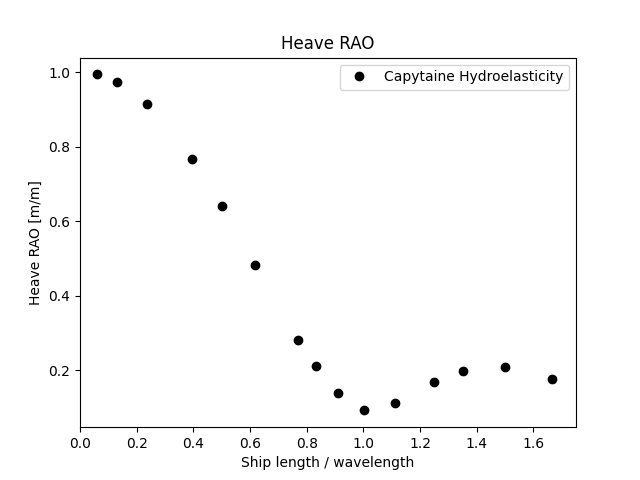
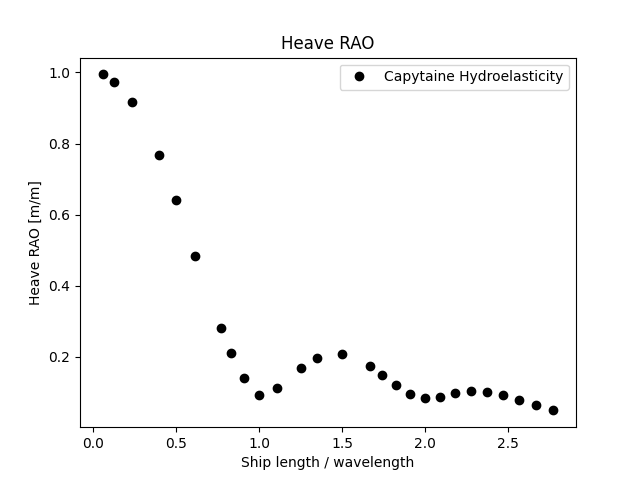
Added separation of rigid body modes into surge, sway, heave, roll, pitch and yaw in CalculateModes. Fixed addition of point masses in all three barge analysis files, accounting for their contributions to roll around center of twist. Used these canonical rigid body modes to plot more RAOs, transfer 

diff --git a/containerShipModelProperSolution.py b/containerShipModelProperSolution.py
@@ -50,7 +50,7 @@ shearModulus = youngsModulus / (2 * (1 + 0.22))
 waveHeight = 0.05
 
 waterDepths = np.array([1.8])
-omegas = np.array([1, 2, 3, 4, 4.50, 5, 5.59, 5.81, 6.07, 6.37, 6.71, 7.12, 7.4, 7.8, 8.22])
+omegas = np.array([1, 2, 3, 4, 4.50, 5, 5.59, 5.81, 6.07, 6.37, 6.71, 7.12, 7.4, 7.8, 8.22, 8.4, 8.6, 8.8, 9, 9.2, 9.4, 9.6, 9.8, 10, 10.2, 10.4, 10.6])
 waveDirections = np.array([np.pi])
 
 # mesh resolution
@@ -101,6 +101,11 @@ for i in range(pointMasses.size):
     beam.massMatrix[7 * vertex + 1, 7 * vertex + 1] += pointMasses[i]
     beam.massMatrix[7 * vertex + 2, 7 * vertex + 2] += pointMasses[i]
 
+    beam.massMatrix[7 * vertex + 3, 7 * vertex + 3] += pointMasses[i] * (zNeutralAxis - zTwistCenter)**2
+
+    beam.massMatrix[7 * vertex + 1, 7 * vertex + 3] -= pointMasses[i] * (zNeutralAxis - zTwistCenter)
+    beam.massMatrix[7 * vertex + 3, 7 * vertex + 1] -= pointMasses[i] * (zNeutralAxis - zTwistCenter)
+
 # mesh generation
 panelsLength = int(round(panelsPerMeter * hullLength))
 panelsBreadth = int(round(panelsPerMeter * hullBreadth))
@@ -141,16 +146,13 @@ modalSpringingResults = spr.ModalProperSpringingResults(dryNaturalFrequenciesSqu
 # midships bending moments
 midshipsBendingMoments = np.zeros([omegas.size], dtype = np.complex128)
 midshipsBendingMomentAmplitudes = np.zeros([omegas.size])
-heaveAmplitudes = np.zeros([omegas.size])
-pitchAmplitudes = np.zeros([omegas.size])
+heaveAmplitudes = np.abs(waveHeight / 2 * modalSpringingResults.modalAmplitudes.values[:, 0, 2] * dryVibrationModesNormalized[2, 2])
+pitchAmplitudes = np.abs(waveHeight / 2 * modalSpringingResults.modalAmplitudes.values[:, 0, 4] * dryVibrationModesNormalized[5, 4])
 
 for i in range(omegas.size):
     displacements = waveHeight / 2 * dryVibrationModesNormalized @ modalSpringingResults.modalAmplitudes.values[i, 0, :]
     midshipsBendingMoments[i] = beam.InternalForce(hullLength/2, displacements, 'mv')
     midshipsBendingMomentAmplitudes[i] = np.abs(midshipsBendingMoments[i])
-
-    heaveAmplitudes[i] = np.abs(np.mean(displacements[2::7]))
-    pitchAmplitudes[i] = np.abs(np.mean(displacements[5::7]))
 
 bendingMomentCoefs = midshipsBendingMomentAmplitudes / (waterDensity * gravity * hullLength**2 * hullBreadth * waveHeight/2)
 
@@ -164,6 +166,30 @@ x = np.linspace(0, hullLength, 500)
 displacements = waveHeight / 2 * dryVibrationModesNormalized @ modalSpringingResults.modalAmplitudes.values[omegaIndex, 0, :]
 bendingMomentDistribution = beam.InternalForce(x, displacements, 'mv')
 shearForceDistribution = beam.InternalForce(x, displacements, 'sv')
+
+# force decomposition
+froudeKrylovModalForces = np.zeros([omegas.size, (beamSegments + 1) * 7], dtype = complex)
+diffractionModalForces = np.zeros([omegas.size, (beamSegments + 1) * 7], dtype = complex)
+structuralMassModalForces = np.zeros([omegas.size, (beamSegments + 1) * 7], dtype = complex)
+addedMassModalForces = np.zeros([omegas.size, (beamSegments + 1) * 7], dtype = complex)
+radiationModalForces = np.zeros([omegas.size, (beamSegments + 1) * 7], dtype = complex)
+hydrostaticStiffnessModalForces = np.zeros([omegas.size, (beamSegments + 1) * 7], dtype = complex)
+structuralStiffnessModalForces = np.zeros([omegas.size, (beamSegments + 1) * 7], dtype = complex)
+modalForcesFromDisplacementsMatrices = np.zeros([omegas.size, (beamSegments + 1) * 7, (beamSegments + 1) * 7], dtype = complex)
+
+for i in range(omegas.size):
+    froudeKrylovModalForces[i, :] = hydrodynamicResults.Froude_Krylov_force.values[i, 0, :]
+    diffractionModalForces[i, :] = hydrodynamicResults.diffraction_force.values[i, 0, :]
+
+    structuralMassModalForces[i, :] = -omegas[i]**2 * modalSpringingResults.modalAmplitudes.values[i, 0, :]
+    addedMassModalForces[i, :] = -omegas[i]**2 * modalSpringingResults.addedMass.values[i, :, :] @ modalSpringingResults.modalAmplitudes.values[i, 0, :]
+
+    radiationModalForces[i, :] = complex(0, 1) * omegas[i] * modalSpringingResults.radiationDamping.values[i, :, :] @ modalSpringingResults.modalAmplitudes.values[i, 0, :]
+
+    hydrostaticStiffnessModalForces[i, :] = hydrostaticStiffness.values @ modalSpringingResults.modalAmplitudes.values[i, 0, :]
+    structuralStiffnessModalForces[i, :] = np.diag(dryNaturalFrequenciesSquared) @ modalSpringingResults.modalAmplitudes.values[i, 0, :]
+
+    modalForcesFromDisplacementsMatrices[i, :, :] = -omegas[i]**2 * (np.eye((beamSegments + 1) * 7) + modalSpringingResults.addedMass.values[i, :, :]) + complex(0, 1) * omegas[i] * modalSpringingResults.radiationDamping.values[i, :, :] + hydrostaticStiffness.values + np.diag(dryNaturalFrequenciesSquared)
 
 
 
@@ -190,7 +216,7 @@ for i in range(omegas.size):
     print('%.2f               %.2f'%(omegas[i], midshipsBendingMomentAmplitudes[i]))
 print()
 
-# for i in range(6, 16):
+# for i in range(6):
 #     animation = hullBody.animate(motion = 'mode%d'%i, loop_duration = 1)
 #     animation.run()
 
@@ -243,7 +269,6 @@ plt.savefig('solutions/%dmodesProper/midshipsBendingMomentCoefs.png'%numberModes
 plt.figure()
 plt.title('Heave RAO')
 plt.plot(hullLength/wavelengths, heaveAmplitudes / (waveHeight / 2), 'ko', label = 'Capytaine Hydroelasticity')
-plt.xlim([0,1.75])
 plt.xlabel('Ship length / wavelength')
 plt.ylabel('Heave RAO [m/m]')
 plt.legend()
@@ -252,11 +277,50 @@ plt.savefig('solutions/%dmodesProper/heaveRAO.png'%numberModes)
 plt.figure()
 plt.title('Pitch RAO')
 plt.plot(hullLength/wavelengths, pitchAmplitudes / (waveHeight / wavelengths * np.pi), 'ko', label = 'Capytaine Hydroelasticity')
-plt.xlim([0,1.75])
 plt.xlabel('Ship length / wavelength')
 plt.ylabel('Pitch RAO [rad/rad]')
 plt.legend()
 plt.savefig('solutions/%dmodesProper/pitchRAO.png'%numberModes)
+
+plt.figure()
+plt.title('Heave excitation force')
+plt.plot(hullLength/wavelengths, np.abs(hydrodynamicResults.excitation_force.values[:, 0, 2]), 'ko', label = 'Capytaine Hydroelasticity')
+plt.xlabel('Ship length / wavelength')
+plt.ylabel('Heave excitation force over square root of ship mass per unit wave amplitude [N/sqrt(kg) / m]')
+plt.legend()
+plt.savefig('solutions/%dmodesProper/heaveExcitation.png'%numberModes)
+
+plt.figure()
+plt.title('Pitch excitation force')
+plt.plot(hullLength/wavelengths, np.abs(hydrodynamicResults.excitation_force.values[:, 0, 4]), 'ko', label = 'Capytaine Hydroelasticity')
+plt.xlabel('Ship length / wavelength')
+plt.ylabel('Pitch excitation force over square root of pitch inertia per unit wave amplitude [Nm/sqrt(kg m2) / m]')
+plt.legend()
+plt.savefig('solutions/%dmodesProper/pitchExcitation.png'%numberModes)
+
+plt.figure()
+plt.title('Heave transfer function')
+plt.plot(hullLength/wavelengths, np.abs(modalSpringingResults.modalAmplitudesFromForcesMatrices.values[:, 2, 2]), 'ko', label = 'Capytaine Hydroelasticity')
+plt.xlabel('Ship length / wavelength')
+plt.ylabel('Heave transfer function [sqrt(kg)m / (sqrt(kg)m / s2)]')
+plt.legend()
+plt.savefig('solutions/%dmodesProper/heaveTransferFunction.png'%numberModes)
+
+plt.figure()
+plt.title('Pitch transfer function')
+plt.plot(hullLength/wavelengths, np.abs(modalSpringingResults.modalAmplitudesFromForcesMatrices.values[:, 4, 4]), 'ko', label = 'Capytaine Hydroelasticity')
+plt.xlabel('Ship length / wavelength')
+plt.ylabel('Pitch transfer function [sqrt(kg)m / (sqrt(kg)m / s2)]')
+plt.legend()
+plt.savefig('solutions/%dmodesProper/pitchTransferFunction.png'%numberModes)
+
+plt.figure()
+plt.title('Heave to pitch transfer function')
+plt.plot(hullLength/wavelengths, np.abs(modalSpringingResults.modalAmplitudesFromForcesMatrices.values[:, 2, 4]), 'ko', label = 'Capytaine Hydroelasticity')
+plt.xlabel('Ship length / wavelength')
+plt.ylabel('Heave to pitch transfer function [sqrt(kg)m / (sqrt(kg)m / s2)]')
+plt.legend()
+plt.savefig('solutions/%dmodesProper/heaveToPitchTransferFunction.png'%numberModes)
 
 plt.figure()
 plt.title('Vertical bending moment distribution for omega = %.2f rad/s'%omegas[omegaIndex])

diff --git a/springing.py b/springing.py
@@ -1209,6 +1209,31 @@ class Beam:
         if not initialIndex == 0:
             print('Warning: Imaginary dry natural frequencies were encountered. There could be inconsistencies in the definition of the mass or stiffness matrices.')
 
+        mixedRigidBodyModesNormalized = allDryVibrationModesNormalized[:, initialIndex : initialIndex + 6]
+        separatedRigidBodyModesNormalized = np.zeros_like(mixedRigidBodyModesNormalized)
+
+        surgeSwayHeaveRollPitchYaw = [0, 1, 2, 3, 5, 6]
+
+        for i in range(6):
+            newModeConditionsMatrix = np.zeros([6, 6])
+
+            for j in range(i):
+                newModeConditionsMatrix[j, :] = separatedRigidBodyModesNormalized[:, j] @ self.massMatrix @ mixedRigidBodyModesNormalized
+            for j in range(i, 6):
+                newModeConditionsMatrix[j, :] = mixedRigidBodyModesNormalized[surgeSwayHeaveRollPitchYaw[j], :]
+
+            newModeConditionsVector = np.zeros([6])
+            newModeConditionsVector[i] = 1
+
+            newModeCoefsNotNormalized = la.solve(newModeConditionsMatrix, newModeConditionsVector)
+            newModeNotNormalized = mixedRigidBodyModesNormalized @ newModeCoefsNotNormalized
+
+            newModeModalMass = newModeNotNormalized @ self.massMatrix @ newModeNotNormalized
+
+            separatedRigidBodyModesNormalized[:, i] = newModeNotNormalized / np.sqrt(newModeModalMass)
+
+        allDryVibrationModesNormalized[:, initialIndex : initialIndex + 6] = separatedRigidBodyModesNormalized
+
         numberNodalDOFs = self.stiffnessMatrix.shape[0]
 
         if initialIndex + numberModes > numberNodalDOFs:

diff --git a/containerShipModelModalSolution.py b/containerShipModelModalSolution.py
@@ -101,6 +101,11 @@ for i in range(pointMasses.size):
     beam.massMatrix[7 * vertex + 1, 7 * vertex + 1] += pointMasses[i]
     beam.massMatrix[7 * vertex + 2, 7 * vertex + 2] += pointMasses[i]
 
+    beam.massMatrix[7 * vertex + 3, 7 * vertex + 3] += pointMasses[i] * (zNeutralAxis - zTwistCenter)**2
+
+    beam.massMatrix[7 * vertex + 1, 7 * vertex + 3] -= pointMasses[i] * (zNeutralAxis - zTwistCenter)
+    beam.massMatrix[7 * vertex + 3, 7 * vertex + 1] -= pointMasses[i] * (zNeutralAxis - zTwistCenter)
+
 # mesh generation
 panelsLength = int(round(panelsPerMeter * hullLength))
 panelsBreadth = int(round(panelsPerMeter * hullBreadth))
@@ -130,9 +135,7 @@ testMatrix = xr.Dataset(coords={
 })
 
 # hydrostatic stiffness calculation
-hydrostaticStiffness = hullBody.compute_hydrostatic_stiffness(rho = waterDensity)
-# hydrostaticStiffness.to_netcdf("data/modal_hydrostatics_allmodes.nc")
-# hydrostaticStiffness = xr.open_dataarray("data/modal_hydrostatics_allmodes.nc")
+hydrostaticStiffness = spr.ComputeHydrostaticStiffness(hullBody, waterDensity, gravity)
 
 # hydrodynamic calculation: added mass, radiation, forcing
 hydrodynamicResults = cpt.BEMSolver().fill_dataset(testMatrix, hullBody)

diff --git a/containerShipModel.py b/containerShipModel.py
@@ -101,6 +101,11 @@ for i in range(pointMasses.size):
     beam.massMatrix[7 * vertex + 1, 7 * vertex + 1] += pointMasses[i]
     beam.massMatrix[7 * vertex + 2, 7 * vertex + 2] += pointMasses[i]
 
+    beam.massMatrix[7 * vertex + 3, 7 * vertex + 3] += pointMasses[i] * (zNeutralAxis - zTwistCenter)**2
+
+    beam.massMatrix[7 * vertex + 1, 7 * vertex + 3] -= pointMasses[i] * (zNeutralAxis - zTwistCenter)
+    beam.massMatrix[7 * vertex + 3, 7 * vertex + 1] -= pointMasses[i] * (zNeutralAxis - zTwistCenter)
+
 # dry natural frequencies
 dryNaturalFrequenciesSquared, dryVibrationModes = eigh(beam.stiffnessMatrix, beam.massMatrix)
 
@@ -133,9 +138,7 @@ testMatrix = xr.Dataset(coords={
 })
 
 # hydrostatic stiffness calculation
-# hydrostaticStiffness = hullBody.compute_hydrostatic_stiffness(rho = waterDensity)
-# hydrostaticStiffness.to_netcdf("data/hydrostatics.nc")
-hydrostaticStiffness = xr.open_dataarray("data/hydrostatics.nc")
+hydrostaticStiffness = spr.ComputeHydrostaticStiffness(hullBody, waterDensity, gravity)
 
 # hydrodynamic calculation: added mass, radiation, forcing
 hydrodynamicResults = cpt.BEMSolver().fill_dataset(testMatrix, hullBody)

diff --git a/hydrostaticStiffnessDiscrepancies.py b/hydrostaticStiffnessDiscrepancies.py
@@ -1,0 +1,37 @@
+import numpy as np
+import capytaine as cpt
+import springing as spr
+
+np.set_printoptions(linewidth=100000)
+
+hullLength = 1
+hullBreadth = 1
+hullDraft = 1
+
+
+
+hullSize = (hullLength, hullBreadth, hullDraft)
+hullCenter = (0, 0, 0)
+meshResolution = (10, 10, 5)
+
+hullMesh = cpt.mesh_parallelepiped(size = hullSize, center = hullCenter, name = 'hull', resolution = meshResolution).immersed_part()
+
+rigidBodyDofs = cpt.rigid_body_dofs(hullCenter)
+rigidBody = cpt.FloatingBody(mesh = hullMesh, dofs = rigidBodyDofs, center_of_mass = hullCenter)
+rigidBodyStiffnessMatrix = rigidBody.compute_hydrostatic_stiffness()
+
+myDofs = {}
+myDofs['x'] = np.zeros([hullMesh.nb_faces, 3])
+myDofs['x'][:, 0] = 1
+myDofs['p'] = np.zeros([hullMesh.nb_faces, 3])
+myDofs['p'][:, 2] = hullMesh.faces_centers[:, 0]
+
+myBody = cpt.FloatingBody(mesh = hullMesh, dofs = myDofs, center_of_mass = hullCenter)
+myBodyStiffnessMatrix = myBody.compute_hydrostatic_stiffness()
+myMethodStiffnessMatrix = spr.ComputeHydrostaticStiffness(myBody, 1000, 9.81)
+
+
+
+print(rigidBodyStiffnessMatrix)
+print(myBodyStiffnessMatrix)
+print(myMethodStiffnessMatrix)
